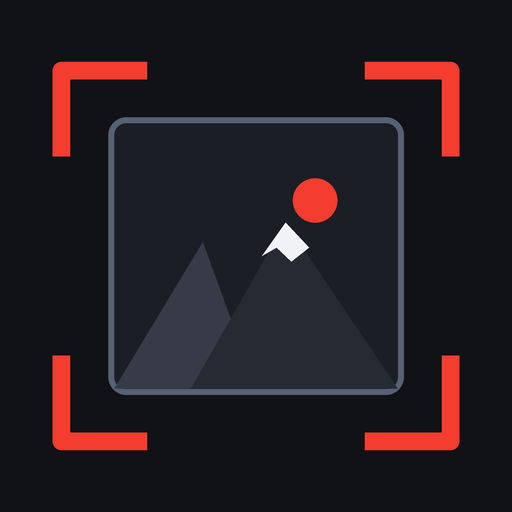
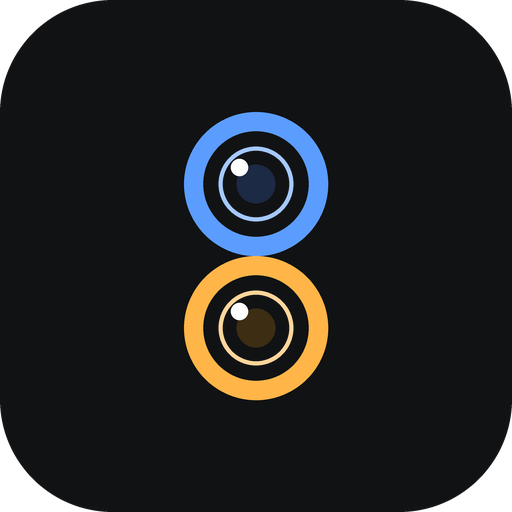
Ottoshots 2.0: nuovo design, tema chiaro/scuro, nuova icona, domande con foto
Claude-Session: https://claude.ai/code/session_01GrWmtnrMXdBFCEdPGmAfE1

diff --git a/index.html b/index.html
@@ -5,65 +5,77 @@
 <meta name="viewport" content="width=device-width, initial-scale=1, viewport-fit=cover">
 <title>Ottoshots</title>
 <link rel="manifest" href="manifest.webmanifest">
-<meta name="theme-color" content="#101216">
+<meta name="theme-color" content="#0f1012">
 <link rel="icon" href="icon-192.png">
 <link rel="apple-touch-icon" href="icon-maskable-192.png">
 <style>
 :root{
-  --bg:#101216; --surface:#1b1e25; --surface2:#262a33; --line:#363b47; --fg:#f1f2f5; --muted:#a3a9b6;
-  --accent:#f23d2f; --on-accent:#ffffff; --hl:#3a1714; --good:#4fd1a1; --bad:#ff8a7a;
+  --bg:#0f1012; --surface:#17191d; --surface2:#21242a; --line:#2d3037; --fg:#f2f3f5; --muted:#9a9ea8;
+  --accent:#5B9DFF; --on-accent:#0a1226; --accent2:#FFB547; --on-accent2:#2a1a00; --hl:#16233b; --good:#4fd1a1; --bad:#ff8a7a;
   --font:system-ui,-apple-system,"Segoe UI",Roboto,sans-serif; color-scheme:dark;
 }
 @media (prefers-color-scheme: light){
-  :root{--bg:#f1f2f4; --surface:#ffffff; --surface2:#e8eaee; --line:#cdd1d9; --fg:#16181d; --muted:#565d6b;
-    --accent:#d3241a; --hl:#fde3e0; --good:#1b7d5c; --bad:#b3261e; color-scheme:light}
+  :root:not([data-tema="scuro"]){--bg:#f4f5f7; --surface:#ffffff; --surface2:#eceef2; --line:#d6d9e0; --fg:#14161a; --muted:#5b6070;
+    --accent:#2f6fe0; --on-accent:#ffffff; --accent2:#c97800; --on-accent2:#ffffff; --hl:#e4eeff; --good:#1b7d5c; --bad:#b3261e; color-scheme:light}
 }
+:root[data-tema="chiaro"]{--bg:#f4f5f7; --surface:#ffffff; --surface2:#eceef2; --line:#d6d9e0; --fg:#14161a; --muted:#5b6070;
+  --accent:#2f6fe0; --on-accent:#ffffff; --accent2:#c97800; --on-accent2:#ffffff; --hl:#e4eeff; --good:#1b7d5c; --bad:#b3261e; color-scheme:light}
 *{box-sizing:border-box;-webkit-tap-highlight-color:transparent}
 html,body{margin:0}
-body{background:var(--bg) radial-gradient(120% 50% at 50% -10%, color-mix(in srgb, var(--accent) 12%, transparent), transparent 60%) no-repeat fixed;color:var(--fg);font:16px/1.45 var(--font);min-height:100vh;
+body{background:var(--bg);color:var(--fg);font:16px/1.45 var(--font);min-height:100vh;
   padding:max(14px, env(safe-area-inset-top, 0px)) max(16px, env(safe-area-inset-right, 0px)) calc(90px + env(safe-area-inset-bottom, 0px)) max(16px, env(safe-area-inset-left, 0px))}
 .wrap{max-width:640px;margin:0 auto}
-@font-face{font-family:'Orbitron';font-weight:900;font-display:swap;src:url(orbitron-900.woff2) format('woff2')}
-.top{display:flex;justify-content:space-between;align-items:baseline;gap:10px;margin-bottom:14px;padding-bottom:10px;border-bottom:2px solid transparent;border-image:linear-gradient(90deg, var(--accent), var(--line) 55%, transparent) 1}
-h1{font-family:'Orbitron',var(--font);font-size:22px;margin:0;font-weight:900;letter-spacing:.07em;text-transform:uppercase}
-h1 .ra{color:var(--accent)}
-h2,h3{font-style:italic;letter-spacing:.02em}
+.top{display:flex;justify-content:space-between;align-items:baseline;gap:10px;margin-bottom:16px}
+h1{font-size:26px;margin:0;font-weight:800;letter-spacing:-.01em;color:var(--accent)}
+h1 .ra{color:var(--accent2)}
 h2{font-size:18px;margin:0 0 8px;font-weight:700}
 .ver,.meta{font-size:13px;color:var(--muted)}
 p{margin:0 0 8px}
 main{display:flex;flex-direction:column;gap:14px}
-.card{background:linear-gradient(180deg, color-mix(in srgb, var(--surface) 100%, #fff 3%), var(--surface));border:1px solid var(--line);border-left:3px solid var(--accent);border-radius:16px;padding:14px;box-shadow:0 4px 14px rgba(0,0,0,.18)}
+.card{background:var(--surface);border:1px solid var(--line);border-radius:20px;padding:16px}
 button,input,textarea{font:inherit;color:var(--fg)}
 button{cursor:pointer}
-input,textarea{background:var(--bg);border:1px solid var(--line);border-radius:10px;min-height:46px;padding:8px 10px;width:100%;min-width:0;font-size:16px}
+input,textarea{background:var(--bg);border:1px solid var(--line);border-radius:14px;min-height:48px;padding:8px 12px;width:100%;min-width:0;font-size:16px}
 textarea{min-height:84px;resize:vertical;margin-top:10px}
 input:focus-visible,textarea:focus-visible,button:focus-visible{outline:2px solid var(--accent);outline-offset:2px}
-label.f{display:flex;flex-direction:column;gap:3px;font-size:12px;font-weight:600;letter-spacing:.05em;text-transform:uppercase;color:var(--muted);margin-bottom:10px}
-label.f input{text-transform:none;letter-spacing:0;font-weight:600}
-.pri{background:linear-gradient(180deg, color-mix(in srgb, var(--accent) 100%, #fff 14%), var(--accent));color:var(--on-accent);border:1px solid var(--accent);border-radius:12px;min-height:50px;padding:6px 18px;font-weight:700}
-.pri:disabled{opacity:.45}
-.sec2{background:var(--surface2);border:1px solid var(--line);border-radius:12px;min-height:50px;padding:4px 14px;font-weight:600}
-.sec2:hover{border-color:var(--accent)}
+label.f{display:flex;flex-direction:column;gap:4px;font-size:13px;font-weight:600;color:var(--muted);margin-bottom:10px}
+label.f input{font-weight:500;color:var(--fg)}
+.pri{background:var(--accent);color:var(--on-accent);border:0;border-radius:16px;min-height:52px;padding:6px 18px;font-weight:700}
+.pri:disabled{opacity:.4}
+.sec2{background:var(--surface2);border:0;border-radius:16px;min-height:52px;padding:4px 14px;font-weight:600}
 .ghost{background:transparent;border:0;color:var(--muted);min-height:44px;padding:0 8px;font-weight:600}
 .btns{display:flex;gap:8px;margin-top:14px}.btns>*{flex:1}
-.item{display:flex;justify-content:space-between;align-items:center;gap:10px;padding:14px;margin-bottom:10px;background:var(--surface);border:1px solid var(--line);border-left:3px solid var(--accent);border-radius:14px;cursor:pointer}
-.item.fatta{opacity:.6;border-left-color:var(--good);cursor:default}
+.item{display:flex;justify-content:space-between;align-items:center;gap:10px;padding:16px;margin-bottom:10px;background:var(--surface);border:1px solid var(--line);border-radius:18px;cursor:pointer}
+.item.fatta{opacity:.55;cursor:default}
 .item b{display:block}.item span.s{font-size:13px;color:var(--muted)}
-.dot{min-width:30px;height:30px;border-radius:15px;background:var(--accent);color:var(--on-accent);display:flex;align-items:center;justify-content:center;font-weight:800;font-size:14px;padding:0 8px}
+.dot{min-width:30px;height:30px;border-radius:15px;background:var(--accent2);color:var(--on-accent2);display:flex;align-items:center;justify-content:center;font-weight:800;font-size:14px;padding:0 8px}
 .dot.d{background:var(--good);color:#06281d}
-.sech{font-size:12px;font-weight:800;letter-spacing:.08em;text-transform:uppercase;color:var(--muted);margin:6px 0 8px}
-.empty{padding:22px 14px;text-align:center;color:var(--muted);border:1px dashed var(--line);border-radius:14px}
+.sech{font-size:13px;font-weight:700;color:var(--muted);margin:6px 0 8px}
+.empty{padding:26px 14px;text-align:center;color:var(--muted);border:1px dashed var(--line);border-radius:18px}
 .empty b{display:block;color:var(--fg);font-size:18px;margin-bottom:4px}
-.prog{height:6px;background:var(--surface2);border-radius:3px;margin:8px 0 14px;overflow:hidden}.prog>i{display:block;height:100%;background:var(--accent);transition:width .25s}
-.stepcard{background:linear-gradient(180deg,var(--hl),var(--surface));border:1px solid var(--accent);border-radius:18px;padding:16px;box-shadow:0 8px 22px rgba(0,0,0,.22)}
-.kick{font-size:12px;font-weight:800;letter-spacing:.08em;text-transform:uppercase;color:var(--accent)}
-.stepcard h2{font-size:21px;margin:4px 0 8px;font-style:normal}
+.prog{height:6px;background:var(--surface2);border-radius:3px;margin:8px 0 14px;overflow:hidden}.prog>i{display:block;height:100%;background:linear-gradient(90deg,var(--accent),var(--accent2));transition:width .25s}
+.stepcard{background:var(--surface);border:1px solid var(--line);border-radius:22px;padding:16px}
+.kick{font-size:13px;font-weight:700;color:var(--accent2)}
+.stepcard h2{font-size:21px;margin:4px 0 8px}
 .det{color:var(--muted);font-size:15px;margin:0 0 12px}
-.opt{display:block;width:100%;text-align:left;margin:8px 0;padding:15px 16px;min-height:56px;font-size:16px;font-weight:600;background:var(--surface2);border:2px solid var(--line);border-radius:14px}
+.opt{display:block;width:100%;text-align:left;margin:8px 0;padding:15px 16px;min-height:56px;font-size:16px;font-weight:600;background:var(--surface2);border:2px solid transparent;border-radius:16px}
 .opt.sel{border-color:var(--accent);background:var(--hl)}
-.opt .cons{float:right;font-size:11px;font-weight:800;letter-spacing:.06em;text-transform:uppercase;color:var(--accent)}
-.sum{background:var(--surface);border:1px solid var(--line);border-radius:12px;padding:10px 12px;margin-bottom:8px;font-size:15px}.sum b{display:block}.sum span{color:var(--muted);font-size:13.5px}
-.banner{background:var(--hl);border:1px solid var(--accent);border-radius:10px;padding:8px 10px;font-size:14px;margin-bottom:10px}
+.opt .cons{float:right;font-size:12px;font-weight:700;color:var(--accent2)}
+.pg{display:grid;grid-template-columns:1fr 1fr;gap:8px;margin:6px 0 10px}
+.pg.uno{grid-template-columns:1fr}
+.ph{position:relative;aspect-ratio:1;border-radius:16px;overflow:hidden;background:var(--surface2);border:3px solid transparent;padding:0}
+.pg.uno .ph{aspect-ratio:4/3}
+.ph img{width:100%;height:100%;object-fit:cover;display:block}
+.ph.sel{border-color:var(--accent)}
+.ph .ck{position:absolute;left:8px;top:8px;width:26px;height:26px;border-radius:50%;background:var(--accent);color:var(--on-accent);font-weight:800;line-height:26px;text-align:center;display:none}
+.ph.sel .ck{display:block}
+.ph .zm{position:absolute;right:8px;bottom:8px;width:34px;height:34px;border-radius:50%;background:rgba(0,0,0,.55);color:#fff;border:0;font-size:16px;line-height:34px;padding:0}
+.ph .nm{position:absolute;left:8px;bottom:8px;font-size:12px;font-weight:700;background:rgba(0,0,0,.55);color:#fff;border-radius:8px;padding:2px 7px}
+#lb{position:fixed;inset:0;background:rgba(0,0,0,.92);z-index:50;display:none;align-items:center;justify-content:center}
+#lb.on{display:flex}#lb img{max-width:100%;max-height:100%;object-fit:contain}
+.sum{background:var(--surface);border:1px solid var(--line);border-radius:14px;padding:10px 12px;margin-bottom:8px;font-size:15px}.sum b{display:block}.sum span{color:var(--muted);font-size:13.5px}
+.banner{background:var(--hl);border:1px solid var(--accent);border-radius:12px;padding:8px 10px;font-size:14px;margin-bottom:10px}
+.seg{display:flex;gap:6px;margin-top:6px}.seg button{flex:1;background:var(--surface2);border:2px solid transparent;border-radius:14px;min-height:46px;font-weight:600}.seg button.on{border-color:var(--accent);background:var(--hl)}
 .plist{position:relative;display:flex;flex-direction:column;gap:12px;margin-top:6px;padding-left:22px}
 .plist:before{content:'';position:absolute;left:5px;top:6px;bottom:6px;width:2px;background:var(--line)}
 .pl{position:relative}.pl:before{content:'';position:absolute;left:-22px;top:5px;width:12px;height:12px;border-radius:50%;background:var(--accent);border:2px solid var(--bg)}
@@ -74,10 +86,10 @@ label.f input{text-transform:none;letter-spacing:0;font-weight:600}
 @keyframes p{70%{box-shadow:0 0 0 12px rgba(79,209,161,0)}100%{box-shadow:0 0 0 0 rgba(79,209,161,0)}}
 nav{position:fixed;left:0;right:0;bottom:0;background:var(--surface);border-top:1px solid var(--line);display:flex;gap:6px;z-index:5;
   padding:6px max(10px, env(safe-area-inset-right, 0px)) calc(6px + env(safe-area-inset-bottom, 0px)) max(10px, env(safe-area-inset-left, 0px))}
-.tab{flex:1;position:relative;background:transparent;border:0;border-radius:12px;min-height:56px;font-weight:700;color:var(--muted);font-size:12px;display:flex;flex-direction:column;align-items:center;justify-content:center;gap:2px}
+.tab{flex:1;position:relative;background:transparent;border:0;border-radius:14px;min-height:56px;font-weight:600;color:var(--muted);font-size:12px;display:flex;flex-direction:column;align-items:center;justify-content:center;gap:2px}
 .tab svg{width:23px;height:23px;fill:none;stroke:currentColor;stroke-width:2;stroke-linecap:round;stroke-linejoin:round}
-.tab[aria-current="page"]{background:var(--hl);color:var(--accent)}
-.tab .bd{position:absolute;top:4px;left:calc(50% + 8px);min-width:18px;height:18px;border-radius:9px;background:var(--accent);color:#fff;font-size:11px;line-height:18px;text-align:center;padding:0 4px}
+.tab[aria-current="page"]{color:var(--accent)}
+.tab .bd{position:absolute;top:4px;left:calc(50% + 8px);min-width:18px;height:18px;border-radius:9px;background:var(--accent2);color:var(--on-accent2);font-size:11px;font-weight:800;line-height:18px;text-align:center;padding:0 4px}
 .toast{position:fixed;left:50%;transform:translateX(-50%);bottom:calc(86px + env(safe-area-inset-bottom, 0px));background:var(--fg);color:var(--bg);padding:10px 16px;border-radius:999px;font-weight:600;font-size:14px;opacity:0;transition:opacity .25s;pointer-events:none;z-index:30}
 .toast.on{opacity:1}
 .big{font-size:42px;margin-bottom:6px}
@@ -94,15 +106,22 @@ nav{position:fixed;left:0;right:0;bottom:0;background:var(--surface);border-top:
   <button class="tab" data-tab="imp"><svg viewBox="0 0 24 24" aria-hidden="true"><path d="M4 7h9M17 7h3M4 17h3M11 17h9"/><circle cx="15" cy="7" r="2"/><circle cx="9" cy="17" r="2"/></svg><span>Impostazioni</span></button>
 </nav>
 <div class="toast" id="toast"></div>
+<div id="lb"><img alt=""></div>
 <script>
 'use strict';
-const APP_V='1.0';
+const APP_V='2.0';
 const DEF_REPO='andreaguiotto02-8/ottoshots-data';
 const $=s=>document.querySelector(s), main=$('#main');
 const esc=s=>String(s==null?'':s).replace(/[&<>"']/g,c=>({'&':'&amp;','<':'&lt;','>':'&gt;','"':'&quot;',"'":'&#39;'}[c]));
 let mem={};
 const store={get(k){try{const v=localStorage.getItem('sd_'+k);return v==null?(mem[k]??null):JSON.parse(v)}catch(e){return mem[k]??null}},
   set(k,v){mem[k]=v;try{localStorage.setItem('sd_'+k,JSON.stringify(v))}catch(e){}}};
+const IMG={};
+function applyTema(){const t=store.get('tema')||'auto';const r=document.documentElement;if(t==='auto')r.removeAttribute('data-tema');else r.setAttribute('data-tema',t);
+  const dark=t==='scuro'||(t==='auto'&&!matchMedia('(prefers-color-scheme: light)').matches);const m=document.querySelector('meta[name=theme-color]');if(m)m.content=dark?'#0f1012':'#f4f5f7'}
+async function imgUrl(p){if(IMG[p])return IMG[p];const c=cfg();if(!c)return null;try{const r=await fetch('https://api.github.com/repos/'+c.repo+'/contents/'+p,{headers:{Authorization:'Bearer '+c.token,Accept:'application/vnd.github.raw'},cache:'no-store'});if(!r.ok)return null;return IMG[p]=URL.createObjectURL(await r.blob())}catch(e){return null}}
+function caricaImg(){document.querySelectorAll('img[data-p]').forEach(async im=>{const u=await imgUrl(im.dataset.p);if(u)im.src=u;else im.alt='Anteprima non disponibile'})}
+const bn=p=>String(p).split('/').pop();
 let S={tab:'dom',dom:[],stato:null,err:'',busy:false,open:null,idx:0,risp:{},fase:'lista',agg:null};
 
 function toast(t){const e=$('#toast');e.textContent=t;e.classList.add('on');clearTimeout(toast.t);toast.t=setTimeout(()=>e.classList.remove('on'),1800)}
@@ -168,7 +187,7 @@ function vDom(){
   if(ch.length){h+='<div class="sech" style="margin-top:18px">Già inviate</div>';ch.slice(0,8).forEach(x=>{h+='<div class="item fatta"><div><b>'+esc(x.titolo)+'</b><span class="s">Risposte inviate</span></div><div class="dot d">✓</div></div>'})}
   main.innerHTML=h+agg();
 }
-function opz(q){return q.tipo==='sino'?['Sì','No']:(Array.isArray(q.opzioni)?q.opzioni:[])}
+function opz(q){if(q.tipo==='foto'){const n=(q.foto||[]).length;return n===1?['Tieni','Elimina']:Array.isArray(q.opzioni)&&q.opzioni.length?q.opzioni:['Tieni tutte','Nessuna da tenere']}return q.tipo==='sino'?['Sì','No']:(Array.isArray(q.opzioni)?q.opzioni:[])}
 const kk=(q,i)=>String(q.id||i+1);
 function apri(n){S.open=S.dom.find(x=>x.n===n);S.idx=0;S.risp={};S.fase='dom';render()}
 function vCard(){
@@ -178,11 +197,12 @@ function vCard(){
   if(S.idx===0&&x.intro)h+='<p class="det">'+esc(x.intro)+'</p>';
   if(S.idx===0&&tutte)h+='<button class="sec2" style="width:100%;margin-bottom:12px" data-act="cons">⚡ Accetta tutti i consigli</button>';
   h+='<div class="stepcard"><div class="kick">Domanda '+(S.idx+1)+'</div><h2>'+esc(q.testo)+'</h2>'+(q.dettaglio?'<p class="det">'+esc(q.dettaglio)+'</p>':'');
+  if(q.tipo==='foto'&&Array.isArray(q.foto)&&q.foto.length){h+='<div class="pg'+(q.foto.length===1?' uno':'')+'">';q.foto.forEach((p,i)=>{h+='<div class="ph'+(r.fi===i?' sel':'')+'" data-fi="'+i+'"><img data-p="'+esc(p)+'" alt=""><span class="ck">✓</span>'+(q.foto.length>1?'<span class="nm">'+(i+1)+'</span>':'')+'<button class="zm" data-zoom="'+i+'" aria-label="Ingrandisci">⤢</button></div>'});h+='</div>'}
   op.forEach((o,j)=>{h+='<button class="opt'+(r.v===o?' sel':'')+'" data-opt="'+j+'">'+(q.consigliata===o?'<span class="cons">consigliata</span>':'')+esc(o)+'</button>'});
   if(q.tipo==='testo'||!op.length)h+='<textarea id="tx" placeholder="Scrivi qui la risposta">'+esc(r.v||'')+'</textarea>';
   else h+='<textarea id="cm" placeholder="Commento (facoltativo)">'+esc(r.c||'')+'</textarea>';
   h+='<div class="btns"><button class="sec2" data-act="nonso">Non so</button><button class="pri" id="av" data-act="avanti">'+(S.idx===x.domande.length-1?'Controlla':'Avanti')+'</button></div></div>';
-  main.innerHTML=h;aggAv();
+  main.innerHTML=h;aggAv();caricaImg();
 }
 function curK(){const q=S.open.domande[S.idx];return kk(q,S.idx)}
 function salva(){const k=curK();S.risp[k]=S.risp[k]||{};const tx=$('#tx'),cm=$('#cm');if(tx)S.risp[k].v=tx.value.trim();if(cm)S.risp[k].c=cm.value.trim()}
@@ -195,7 +215,7 @@ function vRiep(){
 }
 async function invia(){
   const b=$('#inv');b.disabled=true;b.textContent='Invio…';const x=S.open;
-  const out={n:x.n,titolo:x.titolo,inviata:new Date().toISOString(),risposte:x.domande.map((q,i)=>{const r=S.risp[kk(q,i)]||{};return{id:kk(q,i),domanda:q.testo,risposta:r.v||'',commento:r.c||''}})};
+  const out={n:x.n,titolo:x.titolo,inviata:new Date().toISOString(),risposte:x.domande.map((q,i)=>{const r=S.risp[kk(q,i)]||{};const o={id:kk(q,i),domanda:q.testo,risposta:r.v||'',commento:r.c||''};if(q.tipo==='foto'&&r.fi!=null&&q.foto)o.foto=q.foto[r.fi];return o})};
   try{await scrivi('risposte/'+x.n+'.json',out,'risposte '+x.n);x.fatta=true;S.err='';S.fase='ok';render()}
   catch(e){S.err=(e.message||'Errore')+' Le tue risposte restano qui: riprova.';render()}
 }
@@ -218,7 +238,8 @@ function vOggi(){
 /* ---------- Impostazioni ---------- */
 function vImp(){
   const c=store.get('cfg')||{};const on=!!(c.token&&c.repo);
-  main.innerHTML=banner()+'<div class="card"><h2>Collegamento al sistema</h2><p class="meta">Serve una chiave di accesso a GitHub, una volta sola. Resta solo su questo telefono.</p>'+
+  const tm=store.get('tema')||'auto';
+  main.innerHTML=banner()+'<div class="card"><h2>Aspetto</h2><div class="seg">'+[['auto','Automatico'],['scuro','Scuro'],['chiaro','Chiaro']].map(x=>'<button data-act="tema" data-v="'+x[0]+'" class="'+(tm===x[0]?'on':'')+'">'+x[1]+'</button>').join('')+'</div></div><div class="card"><h2>Collegamento al sistema</h2><p class="meta">Serve una chiave di accesso a GitHub, una volta sola. Resta solo su questo telefono.</p>'+
    '<label class="f">Archivio<input id="repo" value="'+esc(c.repo||DEF_REPO)+'" autocapitalize="off" spellcheck="false"></label>'+
    '<label class="f">Chiave di accesso<input id="tok" type="password" autocomplete="off" placeholder="'+(on?'•••••• già salvata (lascia vuoto per tenerla)':'incolla qui la chiave')+'"></label>'+
    '<p class="meta" id="st">'+(on?(S.agg?'Collegato. Ultimo aggiornamento: '+esc(fdt(S.agg)):'Chiave salvata.'):'Non collegato.')+'</p>'+
@@ -234,11 +255,14 @@ async function salvaCfg(){
 
 /* ---------- Eventi ---------- */
 document.addEventListener('click',e=>{
+  if(e.target.closest('#lb')){$('#lb').classList.remove('on');return}
+  const z=e.target.closest('[data-zoom]');if(z){e.stopPropagation();const p=S.open.domande[S.idx].foto[+z.dataset.zoom];imgUrl(p).then(u=>{if(u){$('#lb img').src=u;$('#lb').classList.add('on')}});return}
+  const fo=e.target.closest('[data-fi]');if(fo&&S.open&&S.open.domande[S.idx].foto.length>1){salva();const q=S.open.domande[S.idx],i=+fo.dataset.fi;S.risp[curK()].fi=i;S.risp[curK()].v='Foto '+(i+1)+' ('+bn(q.foto[i])+')';render();return}
   const t=e.target.closest('[data-tab],[data-go],[data-open],[data-opt],[data-act]');if(!t)return;
   if(t.dataset.tab){S.tab=t.dataset.tab;if(S.tab==='dom'&&S.fase!=='lista'&&S.fase!=='ok'){}else if(S.fase==='ok')S.fase='lista';render();return}
   if(t.dataset.go){S.tab=t.dataset.go;render();return}
   if(t.dataset.open){apri(t.dataset.open);return}
-  if(t.dataset.opt!==undefined){salva();S.risp[curK()].v=opz(S.open.domande[S.idx])[+t.dataset.opt];render();return}
+  if(t.dataset.opt!==undefined){salva();S.risp[curK()].v=opz(S.open.domande[S.idx])[+t.dataset.opt];delete S.risp[curK()].fi;render();return}
   const a=t.dataset.act;
   if(a==='ref')carica();
   else if(a==='esci'){S.fase='lista';S.open=null;render()}
@@ -248,13 +272,14 @@ document.addEventListener('click',e=>{
   else if(a==='cons'){S.open.domande.forEach((q,i)=>{S.risp[kk(q,i)]={v:q.consigliata,c:S.risp[kk(q,i)]?.c||''}});S.fase='riep';render()}
   else if(a==='invia')invia();
   else if(a==='salvacfg')salvaCfg();
+  else if(a==='tema'){store.set('tema',t.dataset.v);applyTema();render()}
   else if(a==='scollega'){store.set('cfg',null);S.dom=[];S.stato=null;toast('Scollegato');render()}
 });
 document.addEventListener('visibilitychange',()=>{if(!document.hidden&&cfg()&&S.fase==='lista')carica(true)});
 setInterval(()=>{if(!document.hidden&&cfg()&&S.fase==='lista'&&S.tab!=='imp')carica(true)},120000);
 if('serviceWorker' in navigator)navigator.serviceWorker.register('sw.js').catch(()=>{});
 const ch=store.get('cache');if(ch){S.dom=ch.dom||[];S.stato=ch.stato||null;S.agg=ch.agg||null}
-S.tab=cfg()?'dom':'imp';render();if(cfg())carica(true);
+applyTema();S.tab=cfg()?'dom':'imp';render();if(cfg())carica(true);
 </script>
 </body>
 </html>

diff --git a/sw.js b/sw.js
@@ -1,6 +1,6 @@
 // Service worker di Ottoshots: tiene l'app in memoria per aprirla subito.
-const CACHE = 'ottoshots-2';
-const FILES = ['./', 'index.html', 'manifest.webmanifest', 'icon-192.png', 'icon-512.png', 'icon-maskable-192.png', 'icon-maskable-512.png', 'orbitron-900.woff2'];
+const CACHE = 'ottoshots-3';
+const FILES = ['./', 'index.html', 'manifest.webmanifest', 'icon-192.png', 'icon-512.png', 'icon-maskable-192.png', 'icon-maskable-512.png'];
 self.addEventListener('install', e => { e.waitUntil(caches.open(CACHE).then(c => c.addAll(FILES)).then(() => self.skipWaiting())); });
 self.addEventListener('activate', e => { e.waitUntil(caches.keys().then(k => Promise.all(k.filter(x => x !== CACHE).map(x => caches.delete(x)))).then(() => self.clients.claim())); });
 self.addEventListener('fetch', e => {
